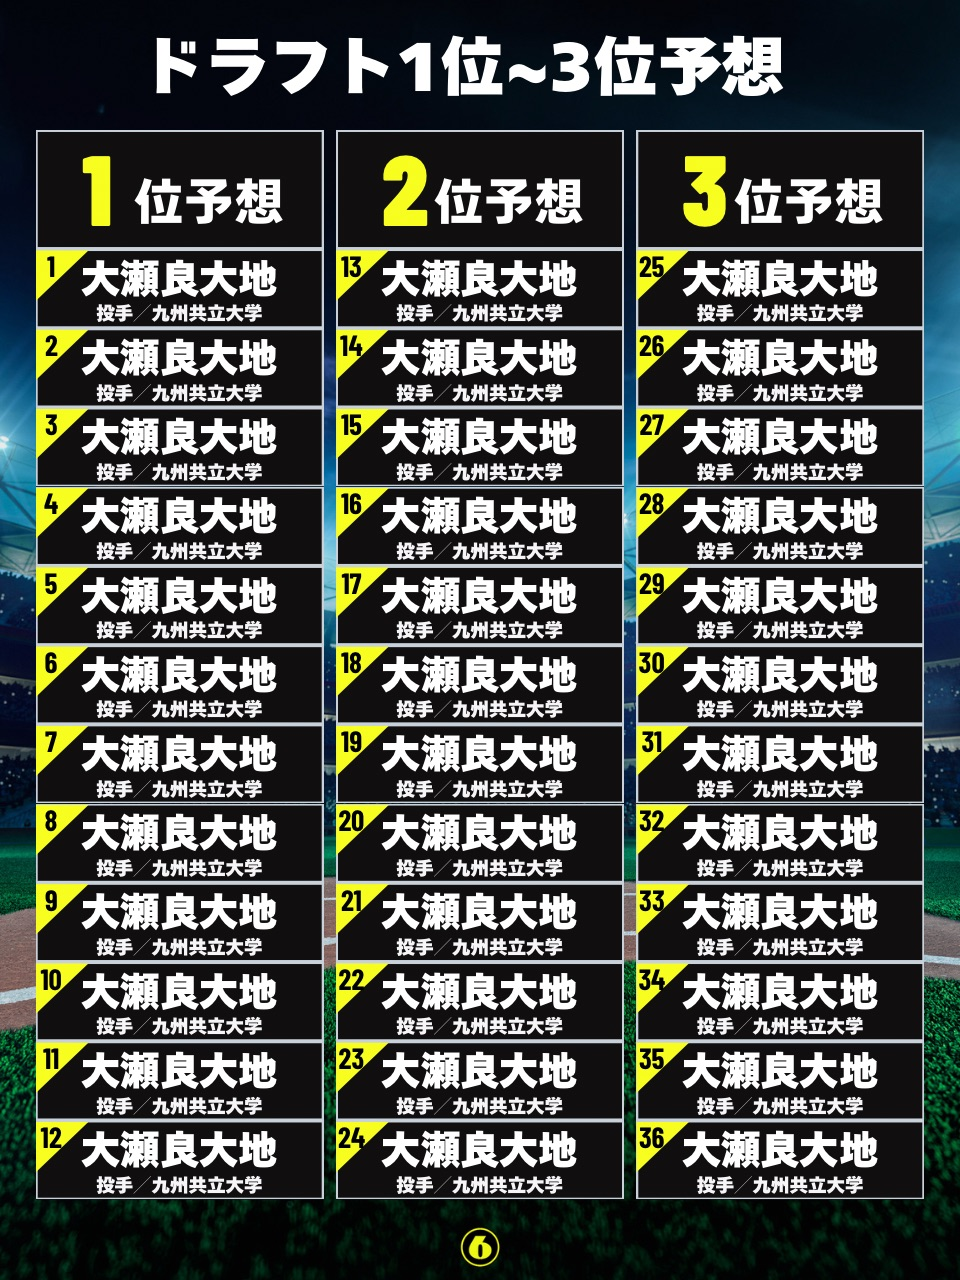
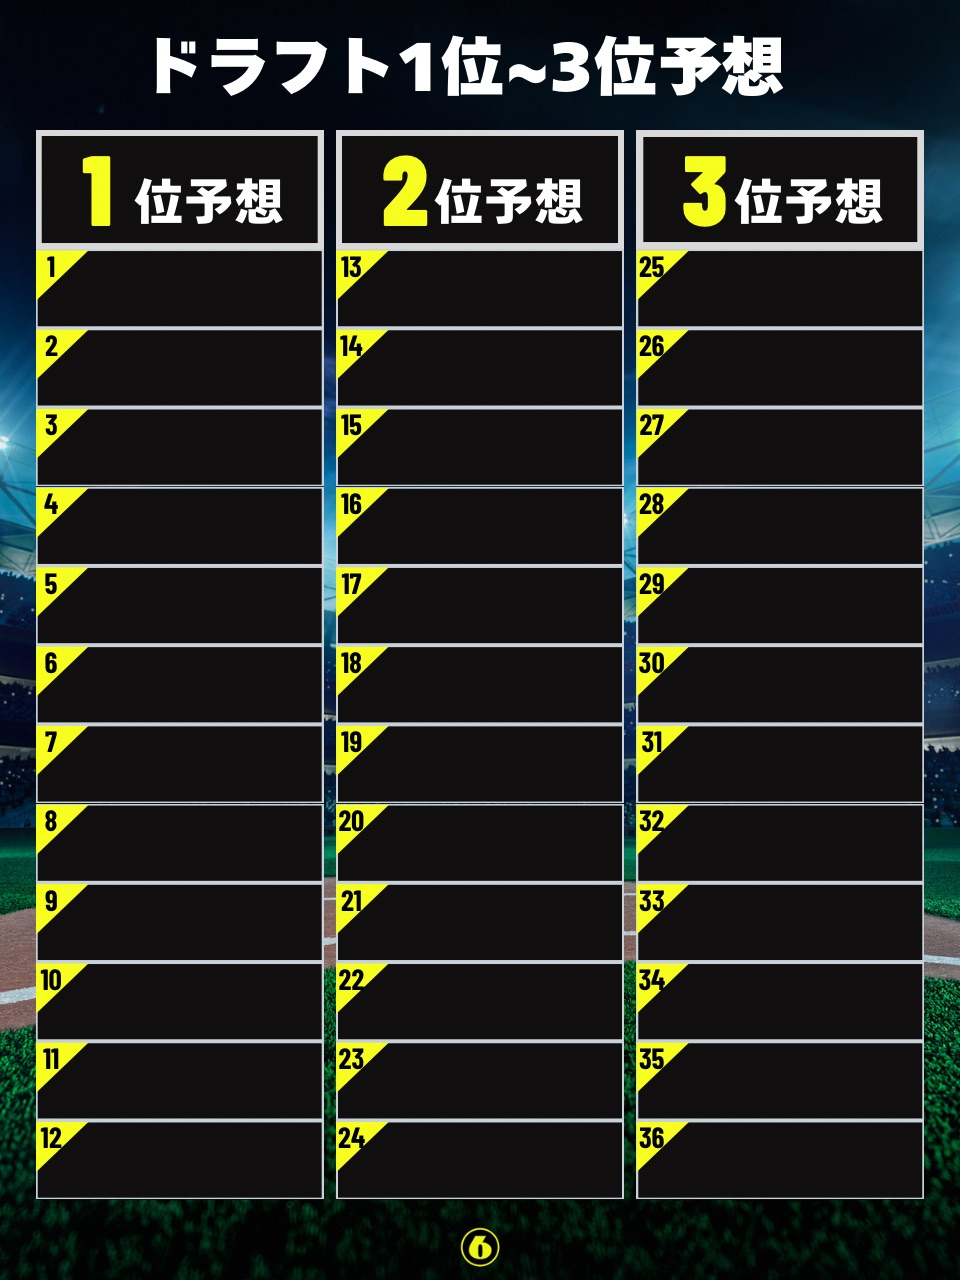
Update draft result template text overlay

diff --git a/app/draft-candidate-sort/result/DraftCandidateSortResult.tsx b/app/draft-candidate-sort/result/DraftCandidateSortResult.tsx
@@ -226,16 +226,8 @@ function drawTemplateRows(
         layout.rowTop + rowIndex * draftResultTemplateLayout.rowHeight
       const textLeft = layout.x + draftResultTemplateLayout.textLeftOffset
 
-      context.fillStyle = "#100F0F"
-      context.fillRect(
-        textLeft - 3,
-        rowTop + draftResultTemplateLayout.textBackgroundTopOffset,
-        draftResultTemplateLayout.textBackgroundWidth,
-        draftResultTemplateLayout.textBackgroundHeight,
-      )
-
       context.fillStyle = "#ffffff"
-      context.font = `900 ${getTemplateNameFontSize(row.name)}px "たずがねゴシック角INFO", "Tazugane Gothic Kaku Info", "Yu Gothic", "Hiragino Kaku Gothic ProN", sans-serif`
+      context.font = `1000 ${getTemplateNameFontSize(row.name)}px "たずがねゴシック角INFO", "Tazugane Gothic Kaku Info", "TazuganeGothicKakuInfo", "Yu Gothic", "Hiragino Kaku Gothic ProN", sans-serif`
       context.fillText(
         row.name,
         textLeft,
@@ -245,7 +237,7 @@ function drawTemplateRows(
       if (row.subText) {
         context.fillStyle = "#ffffff"
         context.font =
-          '800 18px "たずがねゴシック角INFO", "Tazugane Gothic Kaku Info", "Yu Gothic", "Hiragino Kaku Gothic ProN", sans-serif'
+          '700 18px "たずがねゴシック角INFO", "Tazugane Gothic Kaku Info", "TazuganeGothicKakuInfo", "Yu Gothic", "Hiragino Kaku Gothic ProN", sans-serif'
         context.fillText(
           trimForCanvas(row.subText, 15),
           textLeft,

diff --git a/app/draft-candidate-sort/_lib/resultImage.ts b/app/draft-candidate-sort/_lib/resultImage.ts
@@ -25,9 +25,6 @@ export const draftResultTemplateLayout = {
   ],
   rowHeight: 79.36,
   textLeftOffset: 47,
-  textBackgroundTopOffset: 3,
-  textBackgroundWidth: 237,
-  textBackgroundHeight: 73,
   nameBaselineOffset: 43,
   subTextBaselineOffset: 68,
 } as const
